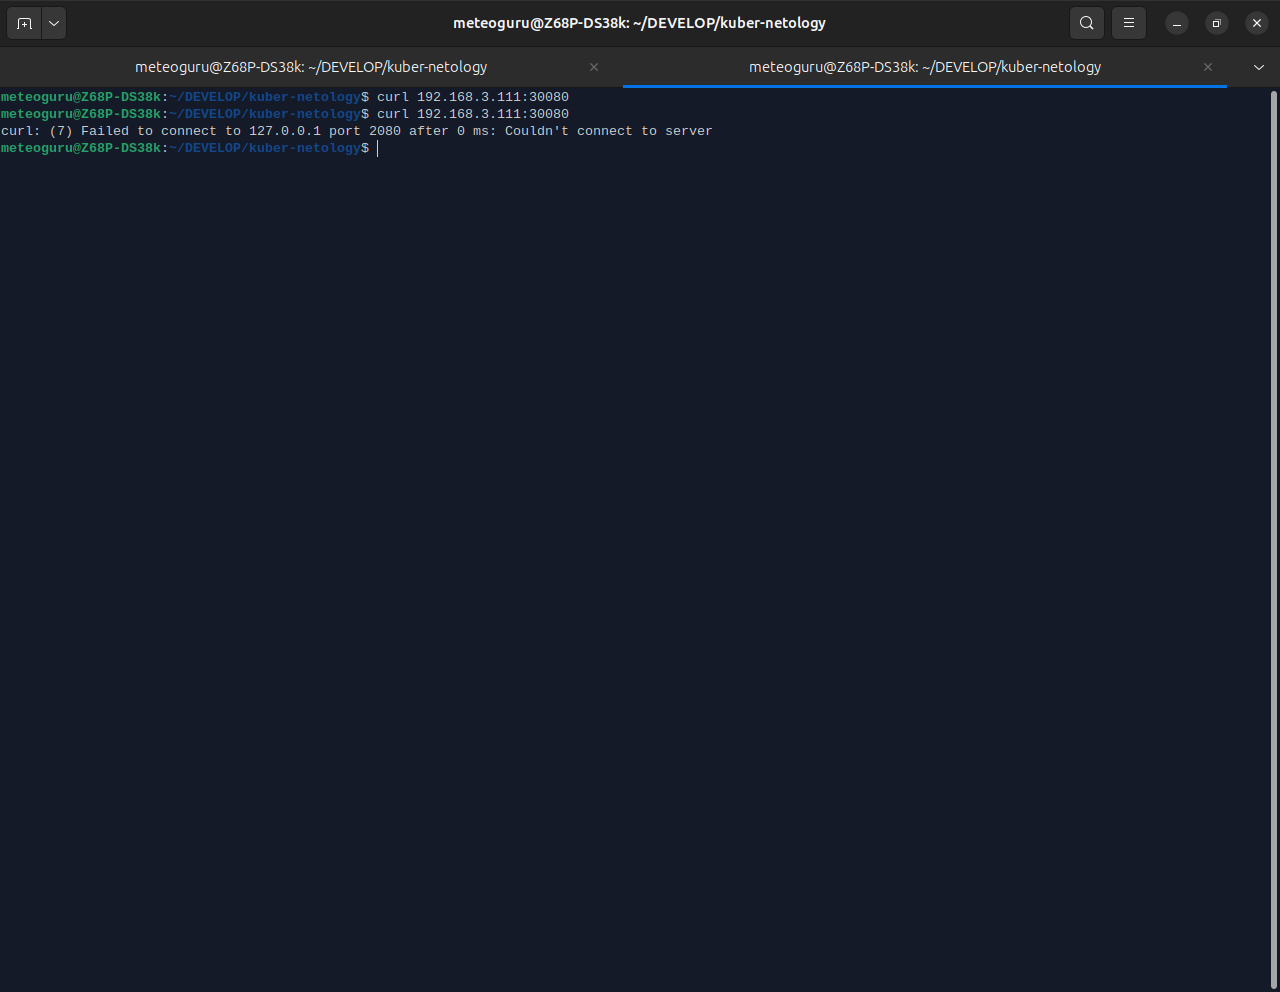
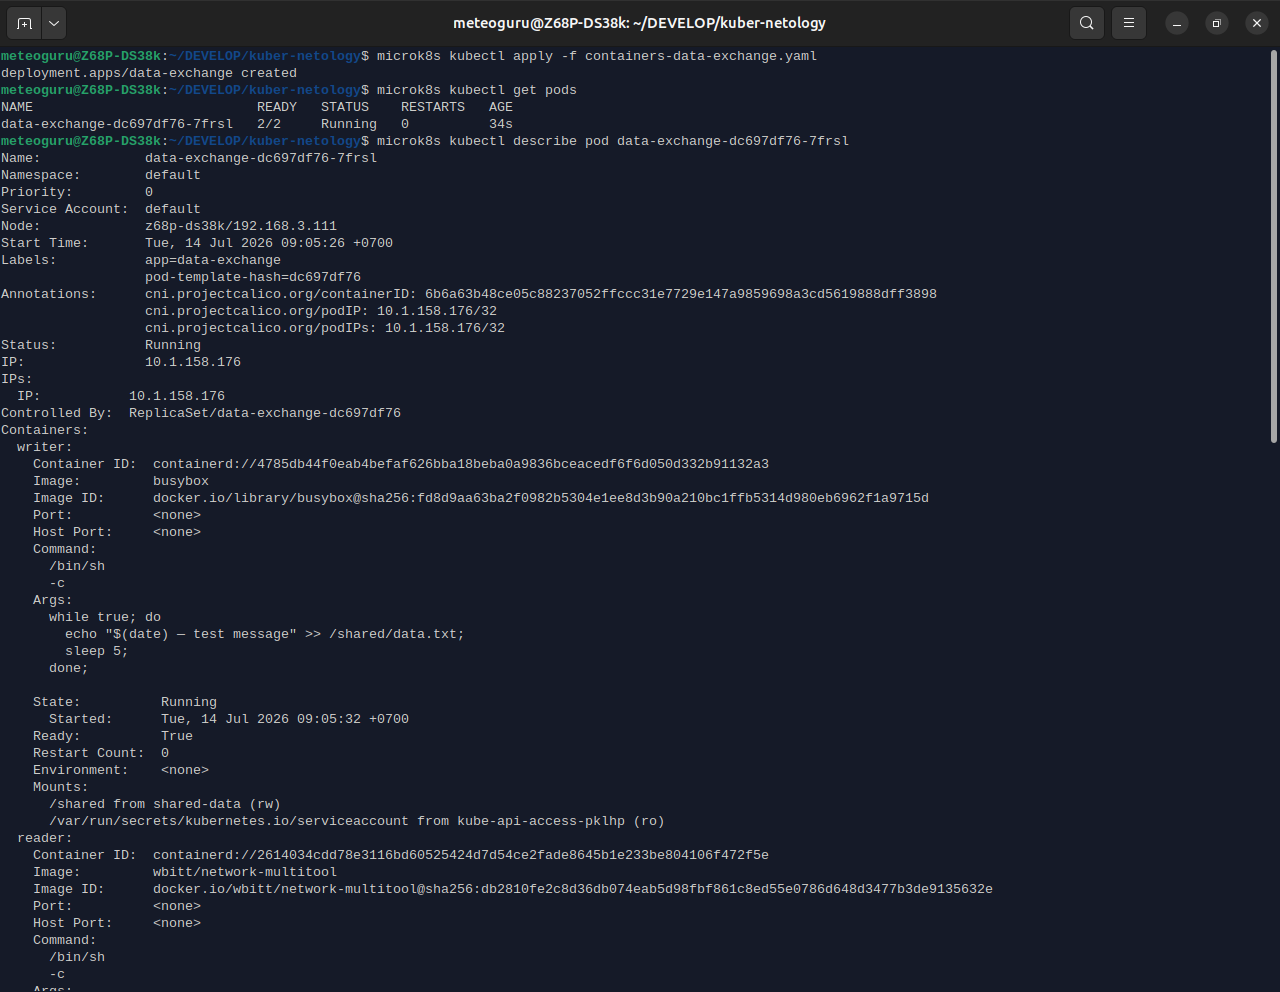
docs(readme): update README for Volume data exchange example
- Remove unnecessary YAML files
- Add new README content for Volume data exchange example
- Update example commands and screenshots

diff --git a/readme.md b/readme.md
@@ -1,161 +1,54 @@
-# Задание 1: Настройка Service (ClusterIP и NodePort)
+# Задание 1. Volume: обмен данными между контейнерами в поде
 
-1. Создать Deployment и обеспечить доступ к контейнерам приложения по разным портам из другого Pod внутри кластера
+1. Создать Deployment приложения, состоящего из двух контейнеров, обменивающихся данными.
 
    * (я использовал microk8s, можно выполнить все команды про порядку)
 
-### Запуск [Deployment](deployment-task3.yaml)
+### Прменение [манифеста](containers-data-exchange.yaml)
 
 ```
-microk8s kubectl apply -f deployment-task3.yaml
+microk8s kubectl apply -f containers-data-exchange.yaml
 ```
 
-### Запуск [Service](service-task3.yaml)
+### Проверка №1 — описание пода
 
 ```
-microk8s kubectl apply -f service-task3.yaml
-```
-
-### Запуск [Pod](multitool-pod.yaml)
-
-```
-microk8s kubectl apply -f multitool-pod.yaml
-```
-
-### Запуск [NodePort‑манифест](multitool-pod.yaml)
-
-```
-microk8s kubectl apply -f service-nodeport.yaml
-```
-
-### Проверки
-
-```
-# 3 Pod с двумя контейнерами + Pod multitool‑client
+# Получение имя pod
 
 microk8s kubectl get pods
 ```
 
-```
-# сервис с портами 9001 и 9002.
 
-microk8s kubectl get svc
-```
 
 ```
-# страница nginx на 9001 порту ⤵
+# Посмотреть описание:
 
-microk8s kubectl exec -it multitool-client -- curl nginx-svc-task3:9001
-
-# страница multitool на 9002 порту ⤵
-
-microk8s kubectl exec -it multitool-client -- curl nginx-svc-task3:9002
+microk8s kubectl describe pod data-exchange-<id>
 ```
 
+### Проверка №2 — чтение файла из multitool
+
 ```
-# узнать IP ноды
-microk8s kubectl get nodes -o wide
+# Подключиться в контейнер reader:
 
-# пример: Internal-IP = 192.168.3.111
-# проверить доступ к nginx через NodePort 30080
+microk8s kubectl exec -it deploy/data-exchange -c reader -- sh
 
-curl 192.168.3.111:30080
+# Внутри контейнера выполнить:
 
-либо в браузере
-
-http://192.168.3.111:30080
-
+tail -f /shared/data.txt
 ```
 
 ### Удаление ресурсов
 
 ```
-microk8s kubectl delete -f deployment-task3.yaml
-microk8s kubectl delete -f service-task3.yaml
-microk8s kubectl delete -f service-nodeport.yaml
-microk8s kubectl delete -f multitool-pod.yaml
-```
+# удалить Deployment
 
-## Далее скриншоты с выполненными командами по порядку ⤵
-
-#### screenshot №1
-
-![alt text](image-3.png)
-
-#### screenshot №2
-
-![alt text](image-4.png)
-
-#### screenshot №3
-
-![alt text](image-2.png)
-
-#### screenshot №4
-
-* (команда curl 192.168.3.111:30080 не работает из-за настроек vpn (не хотелось отключать vpn, чтобы продемонстировать, но через браузер работает при отключеном vpn ⤴ ))
-  ![alt text](image.png)
-
-# Задание 2: Настройка Ingress
-
-1. Развернуть два приложения (frontend и backend) и обеспечить доступ к ним через Ingress по разным путям.
-   (файлы с кодом [ingress.yaml](ingress.yaml), [service-frontend.yaml](service-frontend.yaml), [deployment-frontend.yaml](deployment-frontend.yaml), [service-backend.yaml](service-backend.yaml), [deployment-backend.yaml](deployment-backend.yaml), [configmap-backend.yaml](configmap-backend.yaml))
-
-```
-# включить ingress
-
-microk8s enable ingress
-```
-
-```
-# применить все манифесты
-
-microk8s kubectl apply -f configmap-backend.yaml
-microk8s kubectl apply -f deployment-backend.yaml
-microk8s kubectl apply -f service-backend.yaml
-microk8s kubectl apply -f deployment-frontend.yaml
-microk8s kubectl apply -f service-frontend.yaml
-microk8s kubectl apply -f ingress.yaml
-```
-
-```
-# проверить ресурсы
-
+microk8s kubectl delete -f containers-data-exchange.yaml
+microk8s kubectl delete pod -l app=data-exchange --force --grace-period=0
 microk8s kubectl get pods
-microk8s kubectl get svc
-microk8s kubectl get ingress
 ```
+### Screenshots
 
-* Проверка доступности
-
-```
-# frontend по пути /
-
-curl 127.0.0.1/
-
-# backend по пути /api/
-
-curl 127.0.0.1/api/
-```
-
-* Удаление всех ресурсов
-
-```
-microk8s kubectl delete -f ingress.yaml
-microk8s kubectl delete -f service-frontend.yaml
-microk8s kubectl delete -f deployment-frontend.yaml
-microk8s kubectl delete -f service-backend.yaml
-microk8s kubectl delete -f deployment-backend.yaml
-microk8s kubectl delete -f configmap-backend.yaml
-```
-
-## Далее скриншоты с выполненными командами по порядку ⤵
-
-#### screenshot №1
-
+![alt text](image.png)
+скриншот продложение ....
 ![alt text](image-1.png)
-
-#### screenshot №2
-
-![alt text](image-5.png)
-
-*P.S. `configmap-backend.yaml` создан для того, чтобы хранить тестовую HTML‑страницу и примонтировать её в контейнер `backend`, чтобы при обращении к пути `/api/` nginx внутри Pod отдавал этот файл вместо ошибки 404*